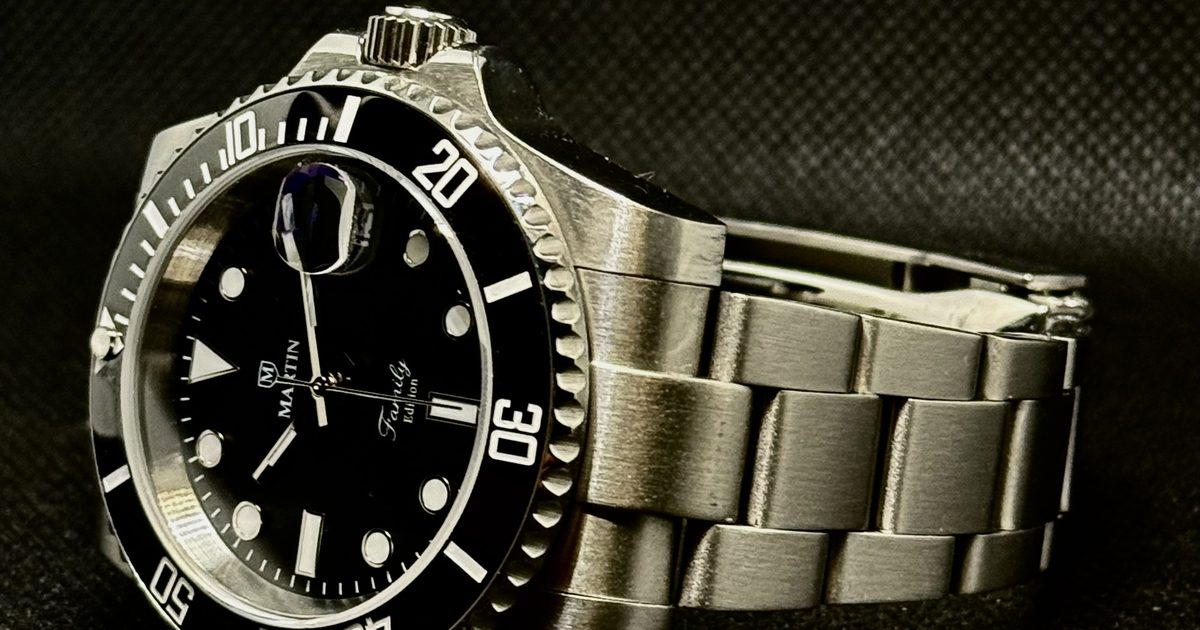
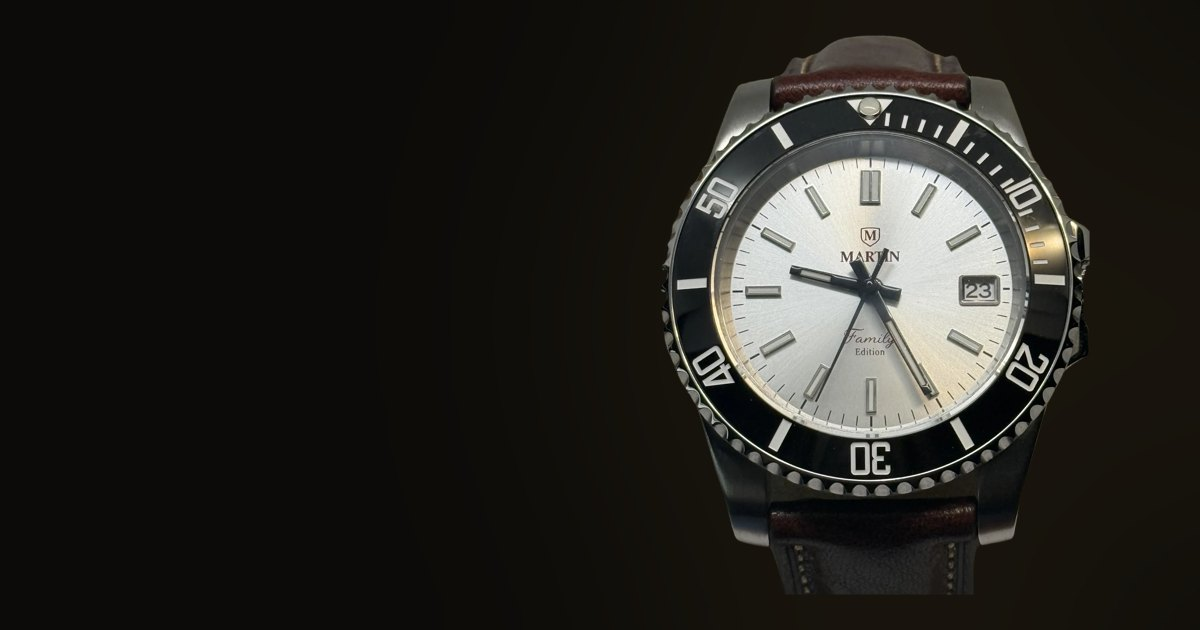
Redesign Custom Diver Watches page to the approved mockup (preview, not deployed)
- Hero: white-dial Family Edition Diver on brown leather, cut out from its
  cushion and placed on a dark ground (watch pixels unchanged)
- Featured: red-dial Diver; detail tiles: purple dial, black bezel
- Lineup: two-tone, black, green bezel on leather, purple, blue first build
- Same verified content, SEO, structured data, sitemap and builder links
- Homepage menu gains a Divers link (desktop and phone)
- Unused images from the previous design removed

Claude-Session: https://claude.ai/code/session_01PhK4QZsHbeXEPu26Litiiz

diff --git a/watches/diver/index.html b/watches/diver/index.html
@@ -19,7 +19,7 @@
 <link rel="preconnect" href="https://fonts.gstatic.com" crossorigin>
 <link href="https://fonts.googleapis.com/css2?family=Cormorant+Garamond:ital,wght@0,400;0,500;0,600;1,400&family=Josefin+Sans:wght@300;400&display=swap" rel="stylesheet">
 <link rel="stylesheet" href="/assets/landing.css">
-<link rel="preload" as="image" href="/images/pages/diver/hero-black-diver-2000.jpg" imagesrcset="/images/pages/diver/hero-black-diver-1100.jpg 1100w, /images/pages/diver/hero-black-diver-2000.jpg 2000w" imagesizes="(max-width: 640px) 100vw, 62vw">
+<link rel="preload" as="image" href="/images/pages/diver/hero-white-leather.webp" type="image/webp">
 <script type="application/ld+json">
 {
  "@context": "https://schema.org",
@@ -52,9 +52,10 @@
     "name": "Martin Watch Co."
    },
    "image": [
-    "https://www.martinwatchco.com/images/pages/diver/hero-black-diver-2000.jpg",
-    "https://www.martinwatchco.com/images/pages/diver/blue-diver-1100.jpg",
-    "https://www.martinwatchco.com/images/pages/diver/lineup-green.jpg"
+    "https://www.martinwatchco.com/images/pages/diver/hero-white-leather.webp",
+    "https://www.martinwatchco.com/images/pages/diver/featured-red.jpg",
+    "https://www.martinwatchco.com/images/pages/diver/gallery-twotone.webp",
+    "https://www.martinwatchco.com/images/pages/diver/gallery-green-leather.webp"
    ],
    "offers": {
     "@type": "Offer",
@@ -187,17 +188,17 @@
 
 <main>
 <section class="hero">
-  <div class="hero-photo">
-    <img src="/images/pages/diver/hero-black-diver-2000.jpg" srcset="/images/pages/diver/hero-black-diver-1100.jpg 1100w, /images/pages/diver/hero-black-diver-2000.jpg 2000w" sizes="(max-width: 640px) 100vw, 62vw" width="2000" height="1735" alt="Martin Diver with a black dial, black bezel and steel bracelet, a real customer build">
-  </div>
-  <div class="wrap">
+  <div class="wrap hero-grid">
     <div class="hero-text">
       <p class="eyebrow">The Martin Diver</p>
       <h1>Custom Diver Watches</h1>
       <p class="built">Built your way</p>
-      <p class="lede">A 40 mm automatic dive watch you design yourself, from the dial to the bracelet, then assembled by hand in Crosby, Texas.</p>
+      <p class="lede">A 40 mm automatic dive watch you design yourself, from the dial to the strap, then assembled by hand in Crosby, Texas.</p>
       <a class="btn" href="/?family=diver#configurator">Build your Diver — $600 <svg viewBox="0 0 24 24" fill="none" stroke="currentColor" stroke-width="1.8" aria-hidden="true"><path d="M4 12h15M13 6l6 6-6 6"/></svg></a>
       <p class="hero-alt">Prefer to talk it through? <a class="textlink" href="/design-meeting/">Request a design meeting</a> or call <a class="textlink" href="tel:+12818385684">281-838-5684</a>.</p>
+    </div>
+    <div class="hero-watch">
+      <img src="/images/pages/diver/hero-white-leather.webp" width="1152" height="1500" fetchpriority="high" alt="Martin Diver with a white sunburst Family Edition dial, black bezel and brown leather strap, a real customer build">
     </div>
   </div>
 </section>
@@ -213,15 +214,15 @@
 
 <section class="yours">
   <div class="yours-photo">
-    <img src="/images/pages/diver/blue-diver-1100.jpg" width="1100" height="1467" loading="lazy" alt="Martin Diver with a blue dial and blue bezel, the first Martin build">
+    <img src="/images/pages/diver/featured-red.jpg" width="1300" height="1733" loading="lazy" alt="Martin Diver with a red sunburst dial, black bezel and steel bracelet">
   </div>
   <div class="yours-body">
     <p class="eyebrow rule">Make it yours</p>
     <h2>A Diver, Your Way</h2>
     <p>Choose your dial, bezel, case, bracelet and hands in the watch builder and see your Diver come together as you go. One price, $600, whatever parts you pick.</p>
     <div class="parts">
-      <figure><img src="/images/pages/diver/detail-dial-green.jpg" width="600" height="600" loading="lazy" alt="Close-up of a green Martin Diver dial"><figcaption>Dials<span data-count="dials">15 to choose from</span></figcaption></figure>
-      <figure><img src="/images/pages/diver/detail-bezel-blue.jpg" width="587" height="587" loading="lazy" alt="Close-up of a blue Martin Diver bezel"><figcaption>Bezels<span data-count="bezels">24 inserts</span></figcaption></figure>
+      <figure><img src="/images/pages/diver/detail-dial-purple.jpg" width="600" height="600" loading="lazy" alt="Close-up of a purple Martin Diver dial"><figcaption>Dials<span data-count="dials">15 to choose from</span></figcaption></figure>
+      <figure><img src="/images/pages/diver/detail-bezel-black.jpg" width="600" height="600" loading="lazy" alt="Close-up of a black Martin Diver bezel"><figcaption>Bezels<span data-count="bezels">24 inserts</span></figcaption></figure>
       <figure><img src="/images/pages/diver/detail-bracelet-steel.jpg" width="600" height="600" loading="lazy" alt="Close-up of a brushed steel Martin Diver bracelet"><figcaption>Bracelets<span data-count="bracelets">16 bracelets and straps</span></figcaption></figure>
       <figure><img src="/images/pages/diver/detail-case-crown.jpg" width="600" height="600" loading="lazy" alt="Close-up of a Martin Diver steel case and crown"><figcaption>Cases<span data-count="cases">4 finishes</span></figcaption></figure>
     </div>
@@ -230,11 +231,11 @@
 
 <section class="lineup" aria-label="Martin Diver builds">
   <ul class="wrap">
-    <li><img src="/images/pages/diver/lineup-black.jpg" width="700" height="933" loading="lazy" alt="Martin Diver with a black dial and black bezel"></li>
-    <li><img src="/images/pages/diver/lineup-green.jpg" width="700" height="933" loading="lazy" alt="Martin Diver with a green dial and green bezel"></li>
-    <li><img src="/images/pages/diver/lineup-burgundy.jpg" width="700" height="933" loading="lazy" alt="Martin Diver with a cream dial and burgundy and black bezel"></li>
-    <li><img src="/images/pages/diver/lineup-purple.jpg" width="700" height="933" loading="lazy" alt="Martin Diver with a purple dial and black bezel"></li>
-    <li><img src="/images/pages/diver/lineup-blue-steel-bezel.jpg" width="700" height="933" loading="lazy" alt="Martin Diver with a blue dial and steel bezel"></li>
+    <li><img class="cut" src="/images/pages/diver/gallery-twotone.webp" width="743" height="900" loading="lazy" alt="Martin Diver with a black dial, black and gold bezel and two-tone bracelet"></li>
+    <li><img src="/images/pages/diver/gallery-black.jpg" width="800" height="1000" loading="lazy" alt="Martin Diver with a black dial, black bezel and steel bracelet"></li>
+    <li><img class="cut" src="/images/pages/diver/gallery-green-leather.webp" width="789" height="900" loading="lazy" alt="Martin Diver with a black dial, green bezel and brown leather strap"></li>
+    <li><img src="/images/pages/diver/gallery-purple.jpg" width="800" height="1000" loading="lazy" alt="Martin Diver with a purple dial, black bezel and steel bracelet"></li>
+    <li><img src="/images/pages/diver/gallery-blue.jpg" width="800" height="1000" loading="lazy" alt="Martin Diver with a blue dial and blue bezel, the first Martin build"></li>
   </ul>
   <p class="lineup-note">Every watch on this page is a real Martin build. <a class="textlink" href="/#gallery">See more in the gallery</a></p>
 </section>

diff --git a/assets/landing.css b/assets/landing.css
@@ -53,11 +53,12 @@ h1, h2, h3 { font-family: var(--serif); font-weight: 500; color: var(--gold); li
 .menu-toggle { display: none; }
 
 /* ── Hero ── */
-.hero { position: relative; min-height: 560px; border-bottom: 1px solid var(--line); overflow: hidden; background: #0c0b09; }
-.hero-photo { position: absolute; inset: 0 0 0 auto; width: 62%; height: 100%; }
-.hero-photo img { width: 100%; height: 100%; object-fit: cover; object-position: 30% 45%; }
-.hero-photo::before { content: ''; position: absolute; inset: 0; background: linear-gradient(90deg, #0c0b09 0%, rgba(12, 11, 9, 0.55) 22%, rgba(12, 11, 9, 0) 48%); z-index: 1; }
-.hero .wrap { position: relative; z-index: 2; padding-top: 4.2rem; padding-bottom: 4.2rem; max-width: 1320px; }
+.hero { position: relative; border-bottom: 1px solid var(--line); overflow: hidden; background: radial-gradient(ellipse 55% 75% at 72% 50%, #2a2216 0%, #15120d 45%, #0a0908 80%); }
+.hero::before { content: ''; position: absolute; inset: 0; opacity: 0.35; background-image: radial-gradient(rgba(255, 240, 200, 0.05) 1px, transparent 1.4px); background-size: 5px 5px; pointer-events: none; }
+.hero .wrap { position: relative; z-index: 2; padding-top: 3rem; padding-bottom: 3rem; max-width: 1320px; }
+.hero-grid { display: grid; grid-template-columns: minmax(0, 1fr) minmax(0, 1.05fr); align-items: center; gap: 2rem; }
+.hero-watch { display: flex; justify-content: center; }
+.hero-watch img { width: auto; max-width: 100%; max-height: 600px; filter: drop-shadow(0 30px 40px rgba(0, 0, 0, 0.75)); -webkit-mask-image: linear-gradient(#000 0%, #000 86%, transparent 100%); mask-image: linear-gradient(#000 0%, #000 86%, transparent 100%); }
 .hero-text { max-width: 30rem; }
 .hero h1 { font-size: clamp(3rem, 6.2vw, 5.2rem); margin: 1.4rem 0 1.6rem; }
 .built { display: flex; align-items: center; gap: 1.1rem; font-family: var(--serif); font-size: 1.05rem; letter-spacing: 0.42em; text-transform: uppercase; color: var(--text); margin-bottom: 1.8rem; }
@@ -76,9 +77,9 @@ h1, h2, h3 { font-family: var(--serif); font-weight: 500; color: var(--gold); li
 
 /* ── Make it yours ── */
 .yours { display: grid; grid-template-columns: 38% 1fr; border-bottom: 1px solid var(--line); }
-.yours-photo { min-height: 100%; background: #000; }
+.yours-photo { min-height: 100%; background: #0a0908; overflow: hidden; }
 .yours-photo { display: flex; align-items: center; justify-content: center; }
-.yours-photo img { width: 100%; height: 100%; max-height: 640px; object-fit: contain; }
+.yours-photo img { width: 100%; height: 100%; max-height: 640px; object-fit: contain; -webkit-mask-image: radial-gradient(ellipse 50% 50% at 50% 50%, #000 55%, transparent 100%); mask-image: radial-gradient(ellipse 50% 50% at 50% 50%, #000 55%, transparent 100%); }
 .yours-body { padding: 3.2rem 3rem 3rem; }
 .yours h2 { font-size: clamp(2.4rem, 4.4vw, 3.6rem); margin: 1rem 0 1rem; }
 .yours p { font-size: 1.05rem; max-width: 34rem; margin-bottom: 2rem; }
@@ -91,7 +92,9 @@ h1, h2, h3 { font-family: var(--serif); font-weight: 500; color: var(--gold); li
 /* ── Lineup ── */
 .lineup { background: radial-gradient(ellipse at 50% 60%, #1b1813 0%, #090909 70%); border-bottom: 1px solid var(--line); padding: 2.6rem 0 2.2rem; }
 .lineup ul { list-style: none; display: grid; grid-template-columns: repeat(5, 1fr); gap: 1.2rem; }
-.lineup img { width: 100%; aspect-ratio: 3 / 4; object-fit: cover; object-position: 50% 40%; }
+.lineup li { display: flex; align-items: flex-end; justify-content: center; aspect-ratio: 4 / 5; }
+.lineup img { width: 100%; height: 100%; object-fit: contain; -webkit-mask-image: radial-gradient(ellipse 50% 50% at 50% 50%, #000 62%, transparent 100%); mask-image: radial-gradient(ellipse 50% 50% at 50% 50%, #000 62%, transparent 100%); }
+.lineup img.cut { width: auto; max-width: 92%; height: 92%; object-fit: contain; -webkit-mask-image: none; mask-image: none; filter: drop-shadow(0 18px 22px rgba(0, 0, 0, 0.8)); }
 .lineup-note { text-align: center; margin-top: 1.4rem; font-size: 0.92rem; color: var(--muted); }
 
 /* ── Content sections ── */
@@ -137,9 +140,8 @@ h1, h2, h3 { font-family: var(--serif); font-weight: 500; color: var(--gold); li
 @media (max-width: 1100px) {
   .main-nav { gap: 1.4rem; }
   .header-social { display: none; }
-  .hero-photo { width: 58%; }
-  .hero-text { max-width: 25rem; }
   .hero h1 { font-size: 3.6rem; }
+  .hero-watch img { max-height: 500px; }
   .yours { grid-template-columns: 1fr; }
   .yours-photo { max-height: 460px; }
   .families { grid-template-columns: repeat(2, 1fr); }
@@ -154,10 +156,10 @@ h1, h2, h3 { font-family: var(--serif); font-weight: 500; color: var(--gold); li
   .menu-toggle .main-nav { position: absolute; top: 68px; left: 0; right: 0; flex-direction: column; align-items: stretch; gap: 0; background: var(--dark); border-bottom: 1px solid var(--line); padding: 0.6rem 2rem 1.2rem; }
   .menu-toggle .main-nav > a, .menu-toggle .main-nav summary { padding: 0.85rem 0; border-bottom: 1px solid rgba(201, 168, 76, 0.12); font-size: 1rem; }
   .menu-toggle .dropdown-menu { position: static; border: 0; background: none; padding: 0 0 0.4rem 1rem; }
-  .hero { min-height: 0; }
-  .hero-photo { position: relative; width: 100%; height: 440px; }
-  .hero-photo::before { background: linear-gradient(0deg, #0c0b09 0%, rgba(12, 11, 9, 0) 35%); }
-  .hero-photo img { object-position: 30% 28%; }
+  .hero { background: radial-gradient(ellipse 90% 45% at 50% 24%, #2a2216 0%, #15120d 50%, #0a0908 85%); }
+  .hero-grid { grid-template-columns: 1fr; gap: 1.2rem; }
+  .hero-watch { order: -1; }
+  .hero-watch img { max-height: 430px; }
   .hero .wrap { padding-top: 1.6rem; padding-bottom: 3rem; }
   .hero-text { max-width: 36rem; }
   .features ul { grid-template-columns: repeat(2, 1fr); }
@@ -173,8 +175,7 @@ h1, h2, h3 { font-family: var(--serif); font-weight: 500; color: var(--gold); li
 @media (max-width: 640px) {
   .wrap { padding: 0 1.25rem; }
   .brand-name { font-size: 1.6rem; }
-  .hero-photo { height: 300px; }
-  .hero-photo img { object-position: 22% 45%; }
+  .hero-watch img { max-height: 330px; }
   .hero .wrap { padding-top: 1.2rem; padding-bottom: 2.6rem; }
   .hero h1 { margin: 1rem 0 1.2rem; }
   .btn { width: 100%; justify-content: center; padding: 1rem 1rem 0.9rem; font-size: 0.88rem; letter-spacing: 0.12em; }

diff --git a/index.html b/index.html
@@ -1480,6 +1480,7 @@
   <a href="#hero" class="nav-logo">MARTIN</a>
   <ul class="nav-links">
     <li><a href="#configurator">Configure</a></li>
+    <li><a href="/watches/diver/">Divers</a></li>
     <li><a href="#gallery">Gallery</a></li>
     <li><a href="#pricing">Pricing</a></li>
     <li><a href="#contact">Inquire</a></li>
@@ -1496,6 +1497,7 @@
     </a>
   </div>
   <div style="display:flex; gap:0.5rem;">
+    <a href="/watches/diver/" class="mobile-admin-btn">Divers</a>
     <a href="#gallery" class="mobile-admin-btn">Gallery</a>
   </div>
 </nav>
